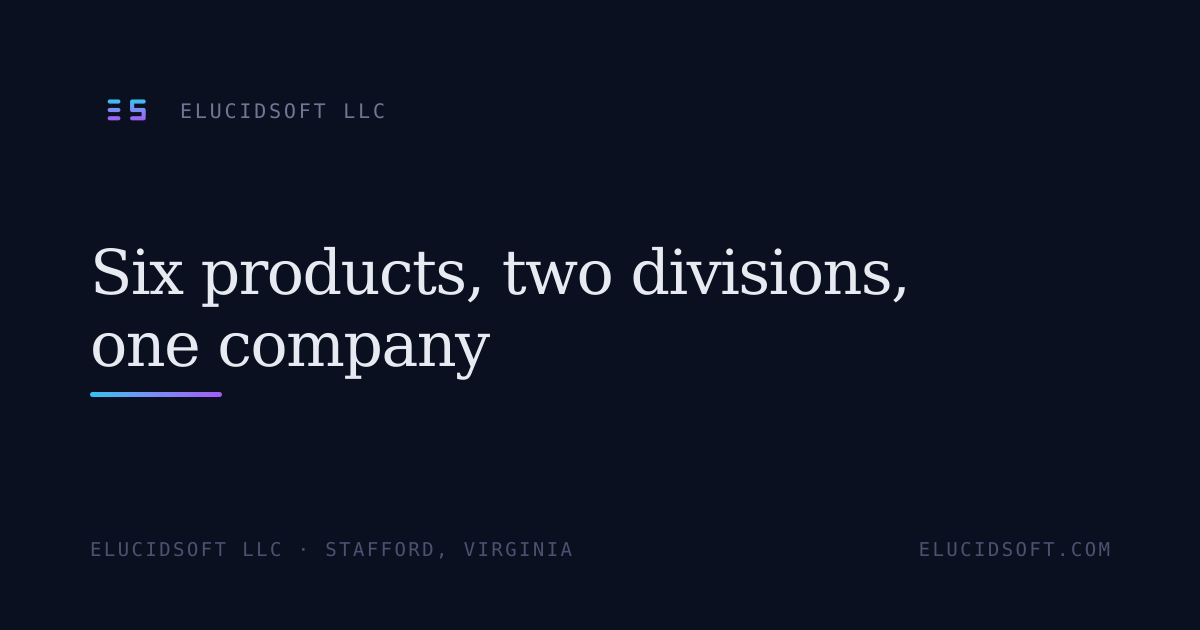
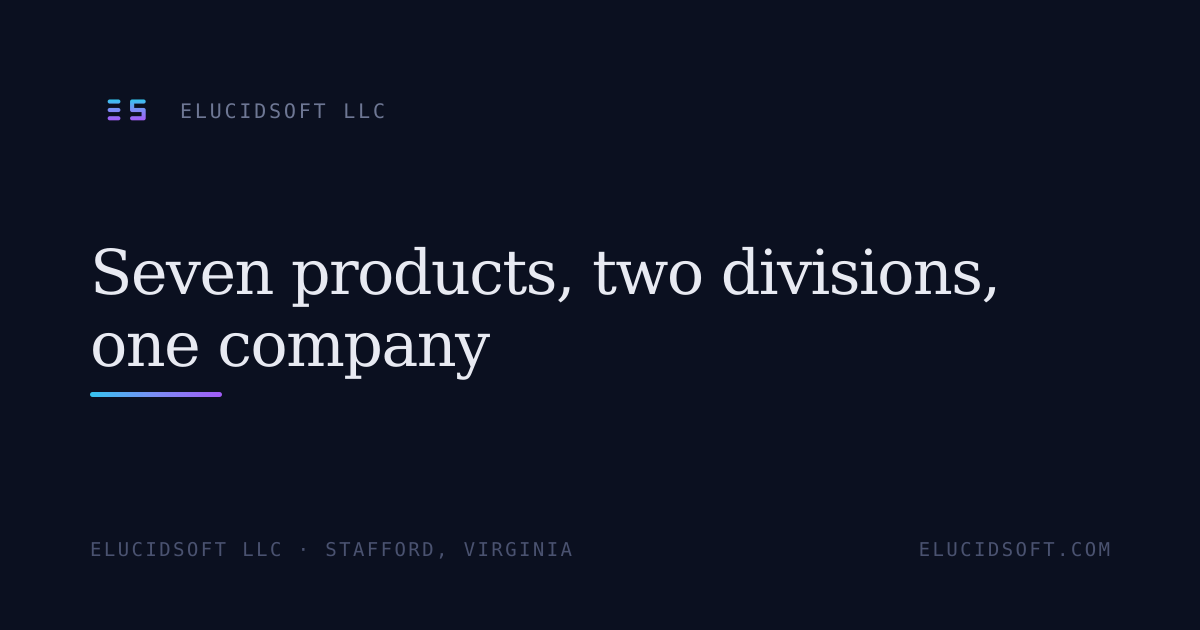
feat: add ActLume to the product portfolio
Register ActLume (actlume.com) as the third commercial SaaS product:
portfolio record, Sonnet-written product copy, brand mark, OG card,
and seven-product roster/count updates across home, portfolio, about,
404, legal, and llms surfaces.

Changed region(s): [[0.0925, 0.3921, 0.8325, 0.4825]]

diff --git a/src/data/copy.ts b/src/data/copy.ts
@@ -47,7 +47,7 @@ export const HOME = {
   entityTitle: 'Independent, founder-led software engineering',
   entityBody: [
     'Elucidsoft was founded in 2010 by Eric Malamisura as a privately held software company in Virginia. Operating with long-term autonomy, we focus on sustainable software architecture, operational independence, and deep technical craft.',
-    'We develop two software lines: commercial SaaS products (Upstat and cloudlayer.io), and independent open-source technologies (WarpKit, Ori, ori-term, and OriJS). Revenue from our commercial products directly funds our ongoing work on open-source tools.',
+    'We develop two software lines: commercial SaaS products (Upstat, cloudlayer.io, and ActLume), and independent open-source technologies (WarpKit, Ori, ori-term, and OriJS). Revenue from our commercial products directly funds our ongoing work on open-source tools.',
   ],
 
   newsEyebrow: 'Corporate communications',
@@ -67,7 +67,7 @@ export const HOME = {
 export const PORTFOLIO = {
   metaTitle: 'Software Products & Systems | Elucidsoft',
   metaDescription:
-    'Explore our portfolio of six software products across commercial SaaS and open source, including Upstat, cloudlayer.io, WarpKit, Ori, ori-term, and OriJS.',
+    'Explore our portfolio of seven software products across commercial SaaS and open source, including Upstat, cloudlayer.io, and ActLume.',
   eyebrow: 'Products',
   title: 'Products',
   lead: 'A directory of our commercial SaaS products and open-source developer tools, detailed by division, development stage, and license.',
@@ -112,6 +112,22 @@ export const PRODUCTS = {
     ],
     whyItExists:
       'Turning dynamic application data into reliable documents should be handled by dedicated infrastructure rather than bespoke rendering scripts.',
+  },
+
+  actlume: {
+    blurb: 'CRA Article 14 reporting workspace for manufacturers',
+    metaTitle: 'ActLume: CRA Article 14 Reporting Workspace',
+    metaDescription:
+      'ActLume is an upcoming reporting workspace helping manufacturers prepare EU Cyber Resilience Act Article 14 incident notifications ahead of the 2026 deadline.',
+    summary:
+      'ActLume is an upcoming multi-tenant web platform for commercial manufacturers subject to the EU Cyber Resilience Act. It is a reporting workspace for CRA Article 14, keeping readiness details, incident facts, human reportability decisions, and staged deadline tracking together in one case record per occurrence.',
+    body: [
+      'CRA Article 14 requires manufacturers to report actively exploited vulnerabilities and severe incidents affecting product security, with staged outer time limits after awareness: a 24-hour early warning, a 72-hour notification, and a final report. These obligations enter into application on 11 September 2026, and tracking them across spreadsheets and email threads leaves accountable staff without a single record of what was decided and when.',
+      'ActLume keeps manufacturer, product, and reporter readiness details alongside incident facts, human reportability decisions, declared awareness times, deadline tracking, and staged report preparation and review in one case record per occurrence. A human filer signs into the ENISA Single Reporting Platform with EU Login to review and submit each report; ActLume never signs in, submits, or automates the portal itself, offering copy-assist to copy one selected value per explicit user gesture and recording the confirmed result as evidence. Every legal determination stays with accountable people.',
+      'ActLume is currently in pre-release development, with its marketing site live at actlume.com ahead of Article 14 obligations entering into application on 11 September 2026, for manufacturers organizing their CRA reporting readiness before the deadline.',
+    ],
+    whyItExists:
+      'Staged CRA Article 14 deadlines and human reportability decisions need one accountable case record rather than scattered spreadsheets and email threads.',
   },
 
   warpkit: {
@@ -215,7 +231,7 @@ export const ABOUT = {
   structureTitle: 'History and governance',
   structureBody: [
     'Elucidsoft was established in 2010 by engineer and entrepreneur Eric Malamisura in Virginia, United States. From inception, the company has operated as a privately held software enterprise dedicated to building dependable digital infrastructure and developer technologies without external investor constraints.',
-    'The corporate structure is straightforward: Elucidsoft serves as the parent software company and legal entity. Upstat (incident response and operational intelligence) and cloudlayer.io (document generation and capture infrastructure) operate as commercial business units under registered trade names (DBAs). cloudlayer.io is live and generating revenue, while Upstat is currently in pre-release development.',
+    'The corporate structure is straightforward: Elucidsoft serves as the parent software company and legal entity. Upstat (incident response and operational intelligence), cloudlayer.io (document generation and capture infrastructure), and ActLume (CRA Article 14 reporting workspace) operate as commercial business units under registered trade names (DBAs). cloudlayer.io is live and generating revenue, while Upstat and ActLume are currently in pre-release development.',
     'Alongside its commercial products, Elucidsoft builds and publishes open-source software, including the WarpKit application framework, the Ori systems programming language, the ori-term GPU terminal emulator, and the OriJS backend framework. Revenue from our commercial products directly supports our open-source development.',
   ],
 
@@ -264,7 +280,7 @@ export const CONTACT = {
 
   asideTitle: 'Commercial product support',
   asideBody:
-    'For customer support, billing inquiries, or technical assistance with Upstat or cloudlayer.io, please visit the official support channels on the product website.',
+    'For customer support, billing inquiries, or technical assistance with Upstat, cloudlayer.io, or ActLume, please visit the official support channels on the product website.',
   channelsTitle: 'Corporate channels & repositories',
 } as const;
 
@@ -300,7 +316,7 @@ export const FACTS = {
   notClaimed: [
     'Elucidsoft is privately held and founder-led; outside investment is currently being raised specifically for cloudlayer.io.',
     'The company is founder-led by Eric Malamisura; no additional employees or contractors are represented on this site.',
-    'Upstat is in pre-release development; Ori, ori-term, and OriJS are experimental alpha projects and are not marketed as production-ready.',
+    'Upstat and ActLume are in pre-release development; Ori, ori-term, and OriJS are experimental alpha projects and are not marketed as production-ready.',
     'No unsolicited customer logos, paid endorsements, or sponsored awards are published.',
   ],
 } as const;
@@ -343,7 +359,7 @@ export const LEGAL = {
       heading: '1. Scope and operational boundaries',
       paragraphs: [
         'This Privacy Policy applies strictly to the elucidsoft.com website and direct corporate communications sent to Elucidsoft LLC. It explains our data handling practices for visitors reviewing corporate documentation, announcements, and open-source project directories.',
-        'Elucidsoft operates distinct commercial SaaS platforms (including Upstat and cloudlayer.io) that maintain separate privacy policies, terms of service, and customer data processing addenda (DPAs). Customer account credentials, billing records, monitoring payloads, and document rendering jobs processed on those commercial platforms are governed exclusively by their respective policies and service agreements.',
+        'Elucidsoft operates distinct commercial SaaS platforms (including Upstat, cloudlayer.io, and ActLume) that maintain separate privacy policies, terms of service, and customer data processing addenda (DPAs). Customer account credentials, billing records, monitoring payloads, and document rendering jobs processed on those commercial platforms are governed exclusively by their respective policies and service agreements.',
       ],
     },
     {
@@ -395,7 +411,7 @@ export const LEGAL = {
     {
       heading: '8. Commercial SaaS privacy policies',
       paragraphs: [
-        'Customer data processed within Upstat or cloudlayer.io is governed by each platform\'s dedicated privacy documentation and customer data protection agreements:',
+        'Customer data processed within Upstat, cloudlayer.io, or ActLume is governed by each platform\'s dedicated privacy documentation and customer data protection agreements:',
       ],
       productLinks: true,
     },
@@ -424,7 +440,7 @@ export const LEGAL = {
     {
       heading: '2. Commercial SaaS services separation',
       paragraphs: [
-        'Elucidsoft operates commercial software platforms under registered trade names, including Upstat (upstat.io) and cloudlayer.io (cloudlayer.io). Each commercial service is governed by its own independent Terms of Service, Service Level Agreements (SLAs), and customer subscription agreements.',
+        'Elucidsoft operates commercial software platforms under registered trade names, including Upstat (upstat.io), cloudlayer.io (cloudlayer.io), and ActLume (actlume.com). Each commercial service is governed by its own independent Terms of Service, Service Level Agreements (SLAs), and customer subscription agreements.',
         'Accessing elucidsoft.com does not grant a commercial SaaS license, establish a service level agreement, or create a customer subscriber relationship with any commercial product line.',
       ],
       productLinks: true,

diff --git a/src/data/portfolio.ts b/src/data/portfolio.ts
@@ -1,5 +1,5 @@
 /**
- * The portfolio register — the single source of truth for all six products.
+ * The portfolio register — the single source of truth for all seven products.
  *
  * This module holds FACTS ONLY: URLs, licences, versions, packages, stage.
  * Every piece of human-readable prose lives in `./copy.ts` and is joined to
@@ -135,6 +135,28 @@ export const PRODUCTS: Product[] = [
       { label: 'Templating', href: 'https://cloudlayer.io/docs/templating/' },
       { label: 'Visual editor', href: 'https://cloudlayer.io/docs/visual-editor/' },
       { label: 'Blog', href: 'https://cloudlayer.io/blog/' },
+    ],
+  },
+  {
+    slug: 'actlume',
+    name: 'ActLume',
+    registerName: 'ActLume',
+    division: 'saas',
+    relationship: 'dba',
+    stage: 'coming-soon',
+    url: 'https://actlume.com/',
+    displayUrl: 'actlume.com',
+    brand: { logo: '/brands/actlume.svg', accent: '#f2a67f', ground: '#224c40', ink: '#0B1020' },
+    category: 'Regulatory incident reporting',
+    audience: 'Manufacturers subject to the EU Cyber Resilience Act',
+    tech: ['Bun', 'Svelte 5', 'OriJS', 'PostgreSQL'],
+    docsUrl: 'https://actlume.com/docs/',
+    links: [
+      { label: 'How it works', href: 'https://actlume.com/how-it-works/' },
+      { label: 'CRA Article 14 guide', href: 'https://actlume.com/cra-article-14/' },
+      { label: 'Pricing', href: 'https://actlume.com/pricing/' },
+      { label: 'Security', href: 'https://actlume.com/security/' },
+      { label: 'Blog', href: 'https://actlume.com/blog/' },
     ],
   },
   {

diff --git a/src/pages/llms-full.html.ts b/src/pages/llms-full.html.ts
@@ -7,7 +7,7 @@ export const GET: APIRoute = async () =>
   new Response(
     wrapAsHtml(
       `llms-full.txt — ${COMPANY.legalName}`,
-      `Complete machine-readable record of ${COMPANY.legalName}: full descriptions of all six products, the company structure, and an explicit list of what the company does not claim.`,
+      `Complete machine-readable record of ${COMPANY.legalName}: full descriptions of all seven products, the company structure, and an explicit list of what the company does not claim.`,
       `${SITE_URL}/llms-full.html`,
       await buildLlmsFullTxt(),
     ),
